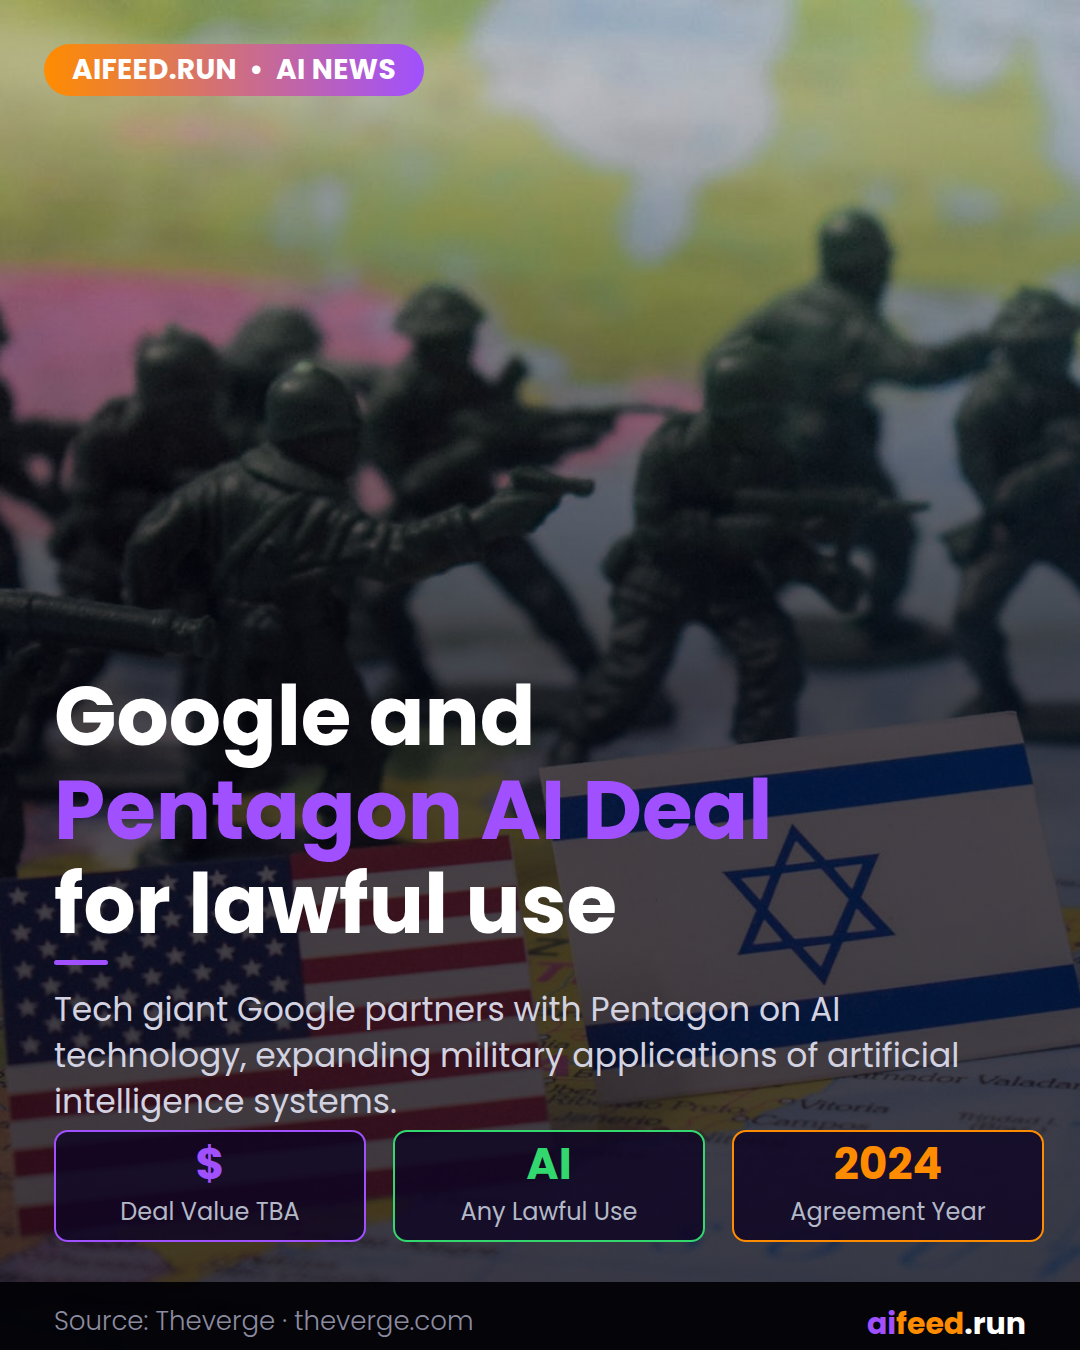
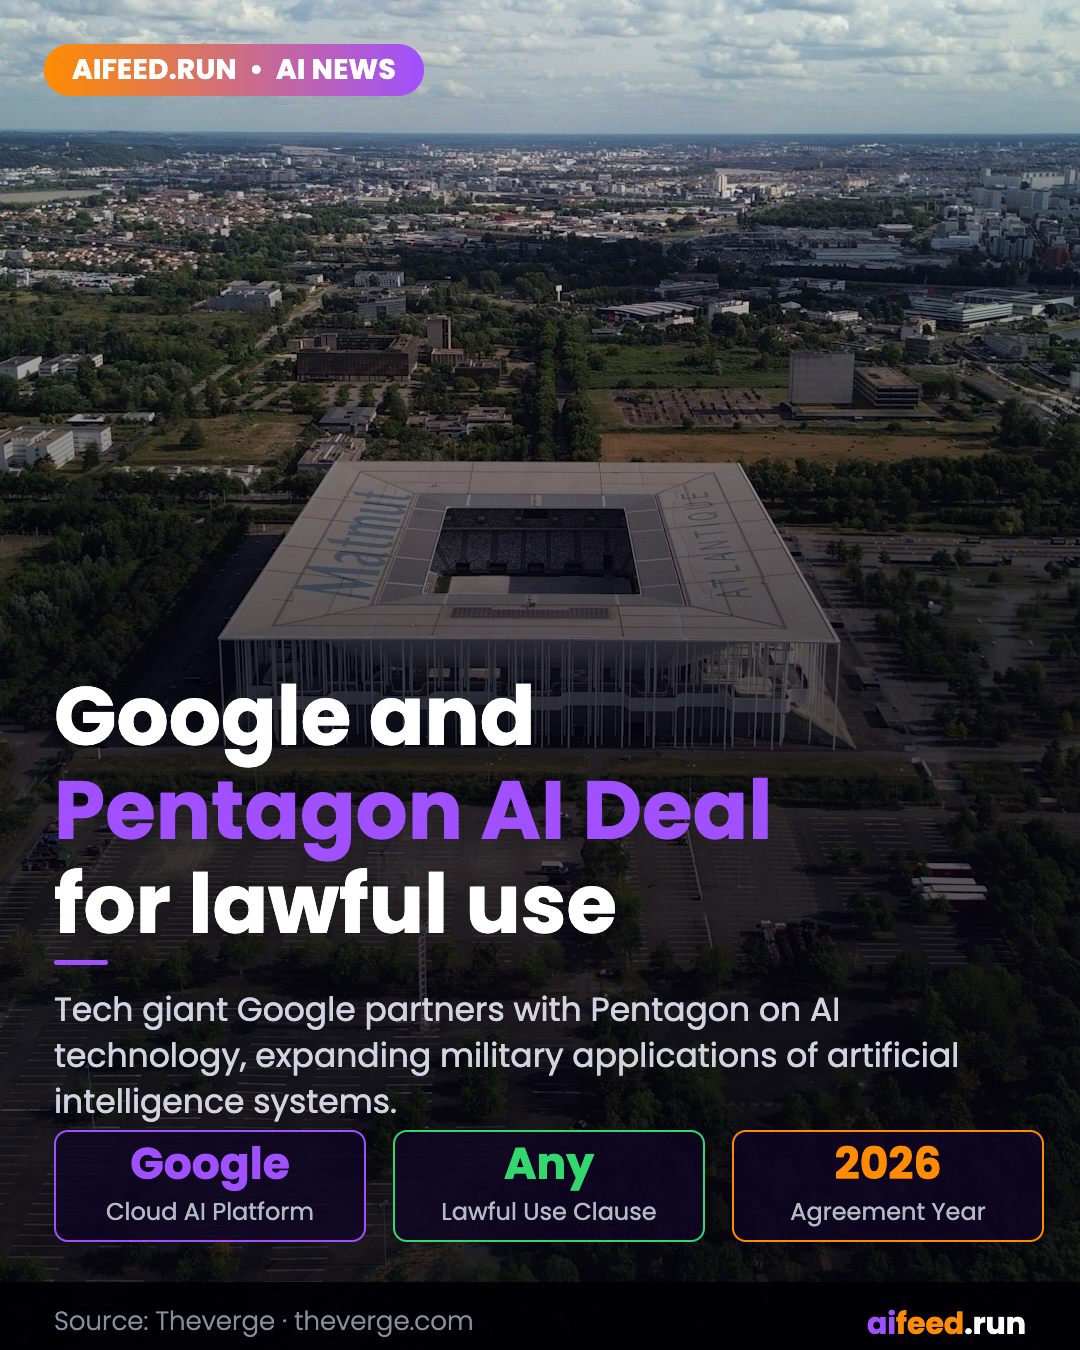
Fix Pentagon graphic: Unsplash aerial photo, correct stats (2026, Google Cloud)

diff --git a/graphics/aifeed_google_and_pentagon_reportedly_agree_on_1777377818400.html b/graphics/aifeed_google_and_pentagon_reportedly_agree_on_1777377818400.html
@@ -1,1 +1,1 @@
-<!DOCTYPE html><html><head><meta charset="UTF-8"><link rel="preconnect" href="https://fonts.googleapis.com"><link rel="preconnect" href="https://fonts.gstatic.com" crossorigin><link href="https://fonts.googleapis.com/css2?family=Poppins:wght@300;400;700&display=swap" rel="stylesheet"><style>html,body{margin:0;padding:0;overflow:hidden;background:#04020e}*{box-sizing:border-box}body{width:1080px;height:1350px}.c{position:relative;width:1080px;height:1350px;overflow:hidden}.bg{position:absolute;top:0;left:0;width:1080px;height:1350px;object-fit:cover;object-position:top center}.ov{position:absolute;inset:0;background:linear-gradient(to bottom,rgba(4,2,14,.04) 0%,rgba(4,2,14,.65) 50%,rgba(4,2,14,.70) 100%)}.pill{position:absolute;top:44px;left:44px;background:linear-gradient(to right,#ff8c00,#a050ff);height:52px;border-radius:26px;padding:0 28px;display:inline-flex;align-items:center;font-family:"Poppins",sans-serif;font-size:28px;font-weight:700;color:#fff;white-space:nowrap;letter-spacing:.3px}.hb{position:absolute;top:670px;left:54px;right:54px;max-height:455px;overflow:hidden}.hl{font-family:"Poppins",sans-serif;font-size:82px;font-weight:700;line-height:94px;display:block}.hw{color:#ffffff}.hp{color:#a050ff}.hu{display:block;width:54px;height:5px;background:#a050ff;border-radius:3px;margin-top:8px}.sub{font-family:"Poppins",sans-serif;font-size:33px;font-weight:400;color:#d2d2e1;line-height:46px;margin-top:22px}.cards{position:absolute;top:1130px;left:54px;display:flex;gap:27px}.card{width:312px;height:112px;background:rgba(15,5,35,.82);border-radius:14px;border:2px solid;position:relative}.c1{border-color:#a050ff}.c2{border-color:#32d76e}.c3{border-color:#ff8c00}.cv{font-family:"Poppins",sans-serif;font-size:44px;font-weight:700;text-align:center;position:absolute;top:10px;left:0;right:0;line-height:1}.c1 .cv{color:#a050ff}.c2 .cv{color:#32d76e}.c3 .cv{color:#ff8c00}.cl{font-family:"Poppins",sans-serif;font-size:24px;font-weight:400;color:#b4b9c8;text-align:center;position:absolute;top:66px;left:0;right:0;line-height:1.2}.bar{position:absolute;bottom:0;left:0;right:0;height:68px;background:rgba(0,0,4,.92)}.bsrc{position:absolute;left:54px;top:20px;font-family:"Poppins",sans-serif;font-size:26px;font-weight:300;color:#8c8ca0;white-space:nowrap;max-width:700px;overflow:hidden;text-overflow:ellipsis}.blogo{position:absolute;right:54px;top:19px;font-family:"Poppins",sans-serif;font-size:30px;font-weight:700}.bai{color:#a050ff}.bfd{color:#ff8c00}.brn{color:#fff}</style></head><body><div class="c"><img class="bg" src="https://images.pexels.com/photos/36359516/pexels-photo-36359516.jpeg?auto=compress&cs=tinysrgb&dpr=2&h=650&w=940" alt=""><div class="ov"></div><div class="pill">AIFEED.RUN  •  AI NEWS</div><div class="hb"><span class="hl hw">Google and</span><span class="hl hp">Pentagon AI Deal</span><span class="hl hw">for lawful use</span><span class="hu"></span><div class="sub">Tech giant Google partners with Pentagon on AI technology, expanding military applications of artificial intelligence systems.</div></div><div class="cards"><div class="card c1"><div class="cv">$</div><div class="cl">Deal Value TBA</div></div><div class="card c2"><div class="cv">AI</div><div class="cl">Any Lawful Use</div></div><div class="card c3"><div class="cv">2024</div><div class="cl">Agreement Year</div></div></div><div class="bar"><div class="bsrc">Source: Theverge · theverge.com</div><div class="blogo"><span class="bai">ai</span><span class="bfd">feed</span><span class="brn">.run</span></div></div></div></body></html>
+<!DOCTYPE html><html><head><meta charset="UTF-8"><link rel="preconnect" href="https://fonts.googleapis.com"><link rel="preconnect" href="https://fonts.gstatic.com" crossorigin><link href="https://fonts.googleapis.com/css2?family=Poppins:wght@300;400;700&display=swap" rel="stylesheet"><style>html,body{margin:0;padding:0;overflow:hidden;background:#04020e}*{box-sizing:border-box}body{width:1080px;height:1350px}.c{position:relative;width:1080px;height:1350px;overflow:hidden}.bg{position:absolute;top:0;left:0;width:1080px;height:1350px;object-fit:cover;object-position:top center}.ov{position:absolute;inset:0;background:linear-gradient(to bottom,rgba(4,2,14,.04) 0%,rgba(4,2,14,.65) 50%,rgba(4,2,14,.70) 100%)}.pill{position:absolute;top:44px;left:44px;background:linear-gradient(to right,#ff8c00,#a050ff);height:52px;border-radius:26px;padding:0 28px;display:inline-flex;align-items:center;font-family:"Poppins",sans-serif;font-size:28px;font-weight:700;color:#fff;white-space:nowrap;letter-spacing:.3px}.hb{position:absolute;top:670px;left:54px;right:54px;max-height:455px;overflow:hidden}.hl{font-family:"Poppins",sans-serif;font-size:82px;font-weight:700;line-height:94px;display:block}.hw{color:#ffffff}.hp{color:#a050ff}.hu{display:block;width:54px;height:5px;background:#a050ff;border-radius:3px;margin-top:8px}.sub{font-family:"Poppins",sans-serif;font-size:33px;font-weight:400;color:#d2d2e1;line-height:46px;margin-top:22px}.cards{position:absolute;top:1130px;left:54px;display:flex;gap:27px}.card{width:312px;height:112px;background:rgba(15,5,35,.82);border-radius:14px;border:2px solid;position:relative}.c1{border-color:#a050ff}.c2{border-color:#32d76e}.c3{border-color:#ff8c00}.cv{font-family:"Poppins",sans-serif;font-size:44px;font-weight:700;text-align:center;position:absolute;top:10px;left:0;right:0;line-height:1}.c1 .cv{color:#a050ff}.c2 .cv{color:#32d76e}.c3 .cv{color:#ff8c00}.cl{font-family:"Poppins",sans-serif;font-size:24px;font-weight:400;color:#b4b9c8;text-align:center;position:absolute;top:66px;left:0;right:0;line-height:1.2}.bar{position:absolute;bottom:0;left:0;right:0;height:68px;background:rgba(0,0,4,.92)}.bsrc{position:absolute;left:54px;top:20px;font-family:"Poppins",sans-serif;font-size:26px;font-weight:300;color:#8c8ca0;white-space:nowrap;max-width:700px;overflow:hidden;text-overflow:ellipsis}.blogo{position:absolute;right:54px;top:19px;font-family:"Poppins",sans-serif;font-size:30px;font-weight:700}.bai{color:#a050ff}.bfd{color:#ff8c00}.brn{color:#fff}</style></head><body><div class="c"><img class="bg" src="https://images.unsplash.com/photo-1716107945233-f7d853eacd67?crop=entropy&cs=srgb&fm=jpg&fit=crop&w=1080&h=1350&q=85" alt=""><div class="ov"></div><div class="pill">AIFEED.RUN  •  AI NEWS</div><div class="hb"><span class="hl hw">Google and</span><span class="hl hp">Pentagon AI Deal</span><span class="hl hw">for lawful use</span><span class="hu"></span><div class="sub">Tech giant Google partners with Pentagon on AI technology, expanding military applications of artificial intelligence systems.</div></div><div class="cards"><div class="card c1"><div class="cv">Google</div><div class="cl">Cloud AI Platform</div></div><div class="card c2"><div class="cv">Any</div><div class="cl">Lawful Use Clause</div></div><div class="card c3"><div class="cv">2026</div><div class="cl">Agreement Year</div></div></div><div class="bar"><div class="bsrc">Source: Theverge · theverge.com</div><div class="blogo"><span class="bai">ai</span><span class="bfd">feed</span><span class="brn">.run</span></div></div></div></body></html>
